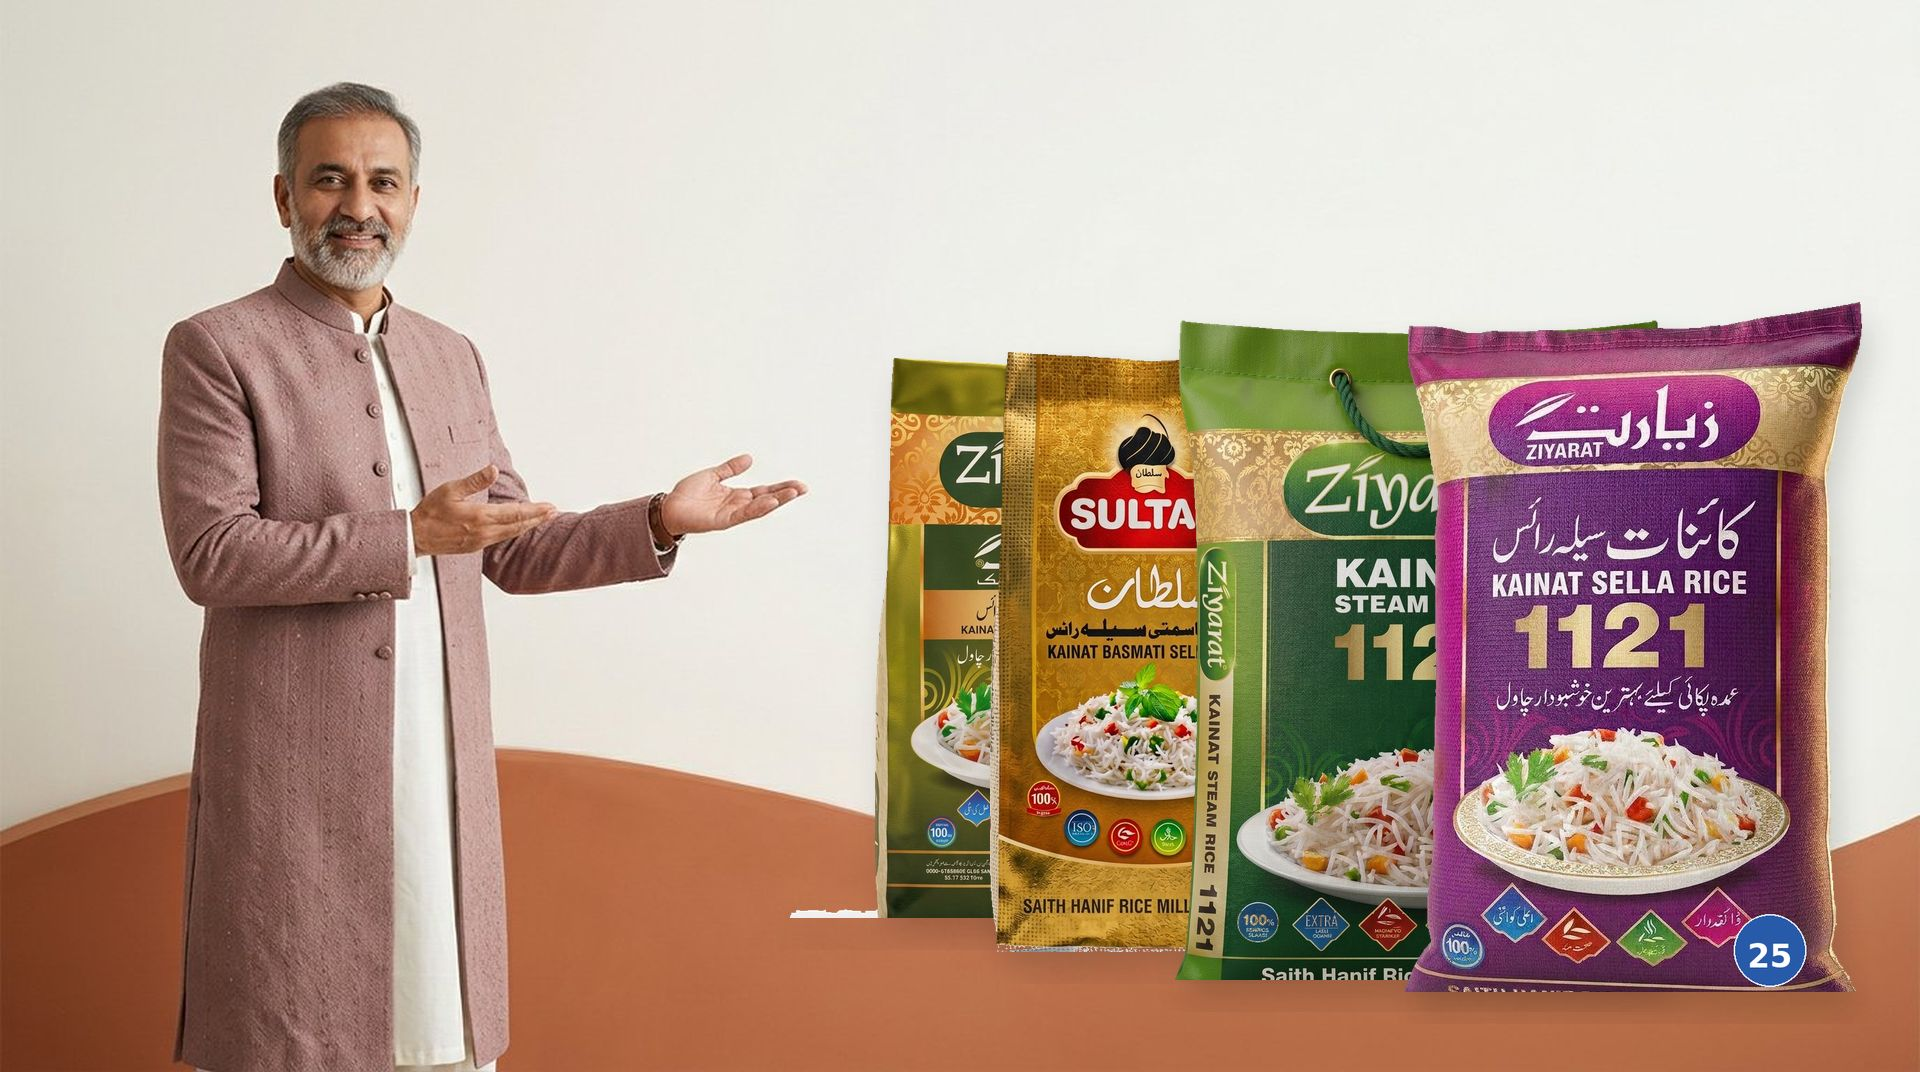
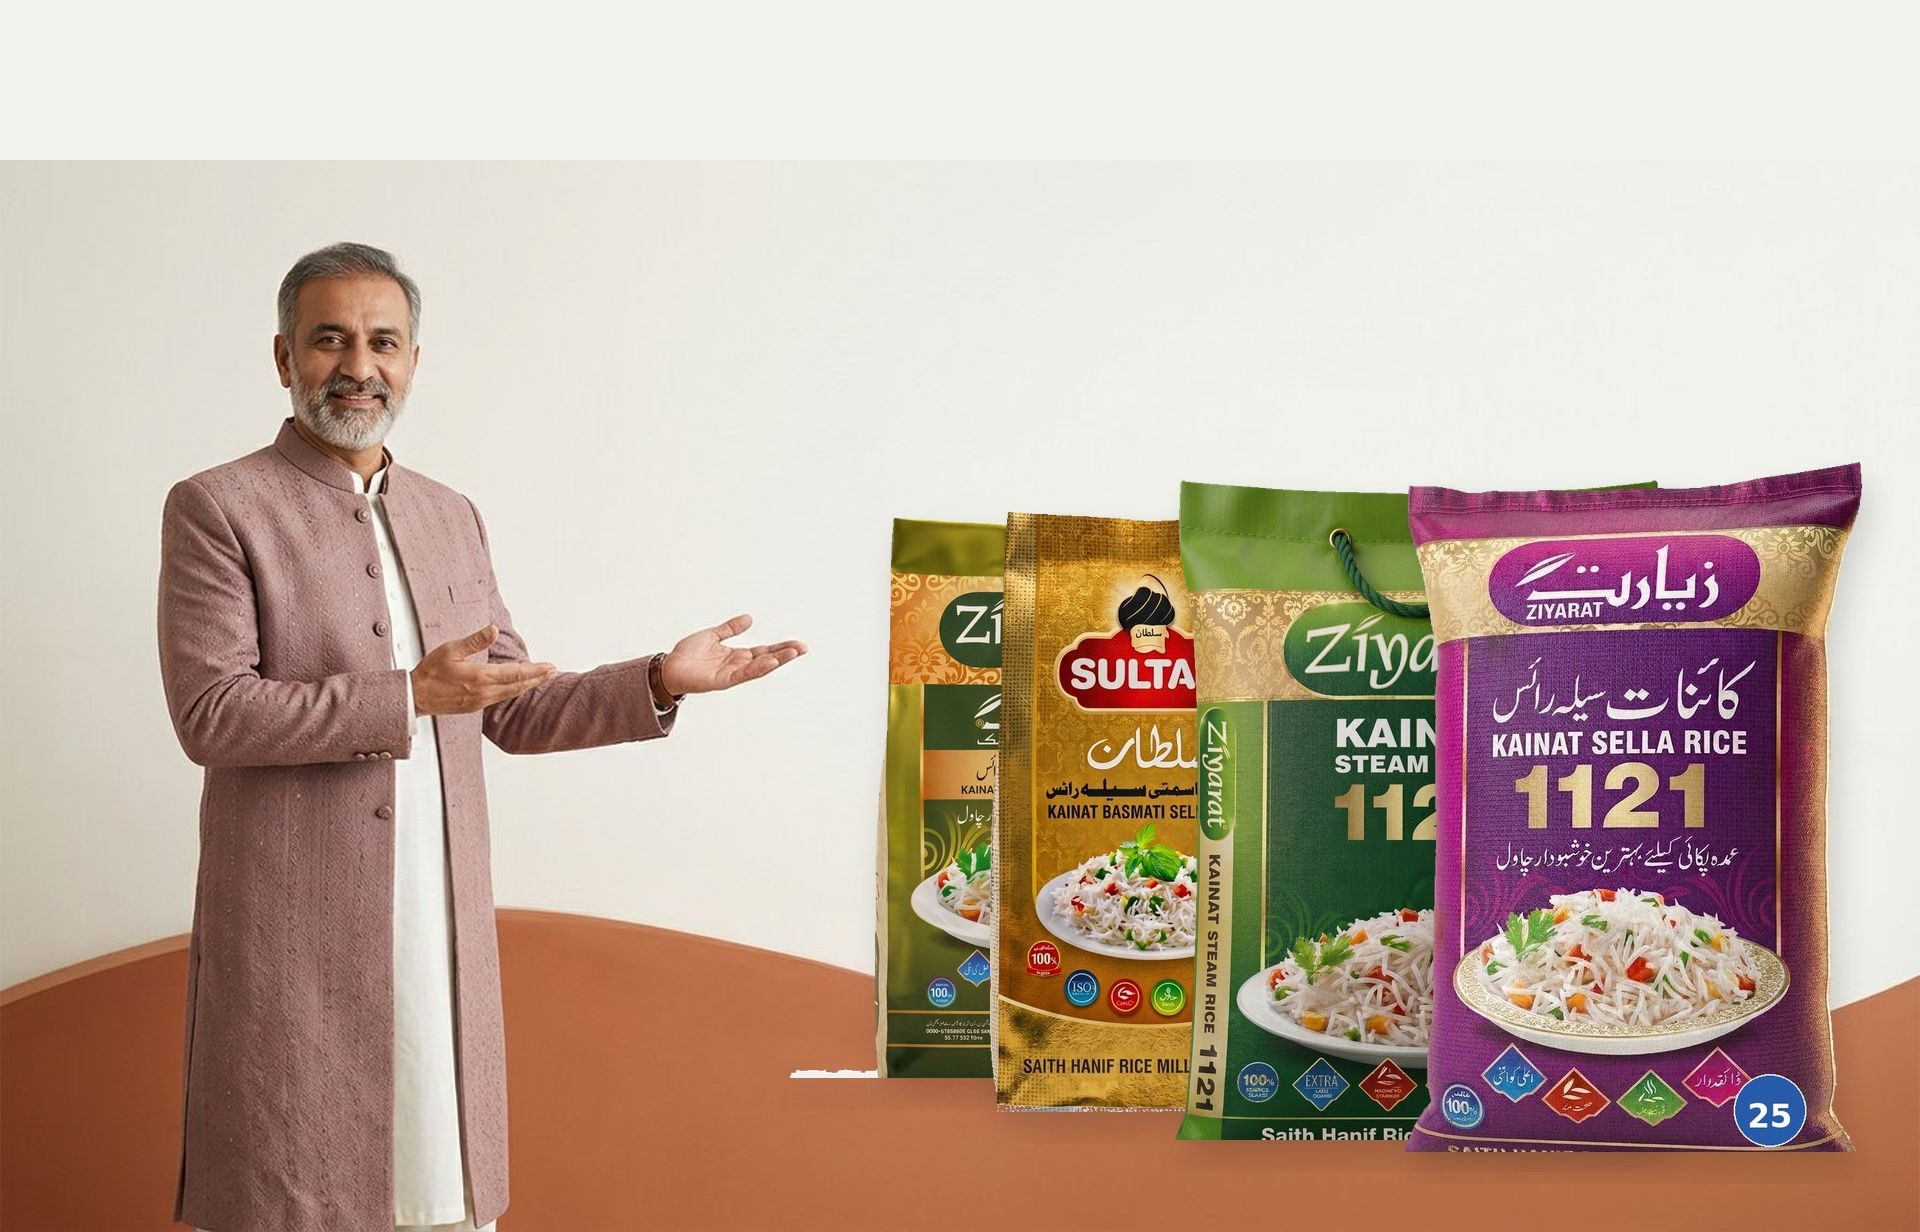
Hero: short copy, readable type, no slide counter on the creative.
Campaign portrait has headroom; overlay type off the packs; 01/03 and Scroll to Discover removed.

diff --git a/css/home.css b/css/home.css
@@ -25,10 +25,10 @@
 .home .hero-center .btn-row,
 .home .hero-center .urdu { max-width: 32rem; }
 .home .hero-center h1 {
-  font-size: clamp(2rem, 4.4vw, 3.4rem);
-  max-width: 14ch;
+  font-size: clamp(1.9rem, 4vw, 3.1rem);
+  max-width: 13ch;
 }
-.home .hero-center .lede { max-width: 34rem; }
+.home .hero-center .lede { max-width: 28rem; }
 .home .hero-shade {
   background:
     linear-gradient(90deg, rgba(6,20,14,0.62) 0%, rgba(6,20,14,0.22) 48%, rgba(6,20,14,0.12) 100%),
@@ -149,12 +149,16 @@
 }
 .home .hero-shade {
   background:
-    linear-gradient(90deg, rgba(6,20,14,0.62) 0%, rgba(6,20,14,0.22) 48%, rgba(6,20,14,0.12) 100%),
-    linear-gradient(180deg, rgba(6,20,14,0.18) 0%, rgba(6,20,14,0.1) 42%, rgba(6,20,14,0.78) 100%);
+    linear-gradient(90deg, rgba(6,20,14,0.82) 0%, rgba(6,20,14,0.52) 34%, rgba(6,20,14,0.12) 62%, rgba(6,20,14,0.04) 100%),
+    linear-gradient(180deg, rgba(6,20,14,0.2) 0%, transparent 36%, rgba(6,20,14,0.45) 100%);
 }
 .home .hero-center h1,
 .home .hero-center .lede {
-  text-shadow: 0 2px 28px rgba(6,20,14,0.55);
+  text-shadow: 0 2px 18px rgba(6,20,14,0.75);
+}
+.home .homepage-banner > .hero-pager,
+.home .homepage-banner > .scroll-discover {
+  display: none;
 }
 .home .scroll-discover {
   left: 50%;
@@ -427,7 +431,6 @@
   .lp-legacy-grid,
   .lp-split { grid-template-columns: 1fr; }
   .tl-item-h { flex-basis: 70%; }
-  .home .scroll-discover { display: flex; }
   .kr-about-media { max-width: 420px; }
   .vm-grid,
   .values-grid,
@@ -435,7 +438,7 @@
 }
 @media (max-width: 720px) {
   .home .slide .hero-content {
-    padding: 0 20px 108px;
+    padding: 0 20px 36px;
   }
   .home .hero-center {
     text-align: left;
@@ -506,10 +509,11 @@ body.home .site-header.scrolled {
   left: 0;
   right: 0;
   bottom: 0;
+  height: auto;
   width: auto;
   margin: 0;
   z-index: 3;
-  padding: 0 88px 128px;
+  padding: 0 96px 56px;
   box-sizing: border-box;
   justify-content: flex-end;
   opacity: 0;
@@ -578,37 +582,15 @@ body.home .site-header.scrolled {
   .home .hero-pack { display: none; }
 }
 
-/* Slide 2 — light pack campaign: copy in the ivory band, CTAs off the packs */
-.home .slide-campaign .hero-shade {
-  background: linear-gradient(180deg, rgba(255,252,247,0.12) 0%, rgba(255,252,247,0) 28%, rgba(255,252,247,0) 100%);
-}
+/* Slide 2 — packs only; no overlay type, no pager on the portrait */
+.home .slide-campaign .hero-shade { background: none; }
 .home .slide-campaign .hero-content.hero-center {
-  top: 0;
+  top: auto;
   bottom: 0;
-  justify-content: space-between;
+  height: auto;
+  justify-content: flex-end;
   align-items: flex-start;
-  text-align: left;
-  padding: calc(var(--header-h) + 18px) 88px 108px;
-}
-.home .slide-campaign .campaign-head {
-  align-self: center;
-  text-align: center;
-  max-width: 22rem;
-}
-.home .slide-campaign .hero-center > * { max-width: none; }
-.home .slide-campaign .hero-center h2 {
-  color: #5c3317;
-  text-shadow: none;
-  max-width: 16ch;
-  font-size: clamp(1.35rem, 2.4vw, 2rem);
-  margin: 0;
-  line-height: 1.15;
-}
-.home .slide-campaign .hero-center h2 em { color: #8a5a2b; }
-.home .slide-campaign .kicker {
-  color: #8a6a2a;
-  letter-spacing: 0.16em;
-  margin-bottom: 8px;
+  padding: 0 96px 48px;
 }
 .home .slide-campaign .hero-actions {
   align-self: flex-start;
@@ -619,38 +601,15 @@ body.home .site-header.scrolled {
   animation: none;
   transform: none;
 }
-.home .slide-campaign > img { object-position: 62% center; }
-.home .hero.is-campaign .hero-pager {
-  left: 88px;
-  transform: none;
-  align-items: flex-start;
-}
-.home .hero.is-campaign .scroll-discover {
-  left: 88px;
-  right: auto;
-  transform: none;
-}
-.home .hero.is-campaign .hero-count,
-.home .hero.is-campaign .scroll-discover {
-  color: #5c3317;
-  text-shadow: none;
-}
-@media (min-width: 900px) {
-  .home .slide-campaign > img { object-position: center center; }
+.home .slide-campaign > img {
+  object-fit: cover;
+  object-position: center 8%;
 }
 @media (max-width: 720px) {
   .home .slide-campaign .hero-content.hero-center {
-    padding: calc(var(--header-h) + 10px) 20px 100px;
+    padding: 0 20px 28px;
   }
-  .home .slide-campaign .hero-center h2 {
-    font-size: clamp(1.2rem, 5.4vw, 1.55rem);
-    max-width: 14ch;
-  }
-  .home .slide-campaign > img { object-position: 78% 55%; }
-  .home .hero.is-campaign .hero-pager,
-  .home .hero.is-campaign .scroll-discover {
-    left: 20px;
-  }
+  .home .slide-campaign > img { object-position: 78% 18%; }
 }
 
 .about-page .page-hero {

diff --git a/index.html b/index.html
@@ -19,7 +19,7 @@
   <link rel="preconnect" href="https://fonts.gstatic.com" crossorigin>
   <link href="https://fonts.googleapis.com/css2?family=Inter:wght@400;500;600;700&family=Playfair+Display:ital,wght@0,400;0,500;0,600;0,700;1,400;1,500;1,600&family=Noto+Nastaliq+Urdu:wght@400;500;600;700&display=swap" rel="stylesheet">
   <link rel="stylesheet" href="css/style.css?v=36">
-  <link rel="stylesheet" href="css/home.css?v=39">
+  <link rel="stylesheet" href="css/home.css?v=40">
 <script type="application/ld+json">
   {"@context":"https://schema.org","@type":"Organization","name":"Saith Hanif Rice Mills","url":"https://muhammadashir0.github.io/jhabran-rice-mill/","foundingDate":"1975","email":"saithhanifsailaricemills@gmail.com","telephone":"+923133332101","address":{"@type":"PostalAddress","streetAddress":"Jandiala Road, Jhabran","addressLocality":"Sheikhupura","addressRegion":"Punjab","addressCountry":"PK"},"brand":[{"@type":"Brand","name":"Ziyarat"},{"@type":"Brand","name":"Sultan"},{"@type":"Brand","name":"Wazir"}]}
   </script>
@@ -64,9 +64,9 @@
           <img src="assets/images/hero-slide-fields.jpg" alt="Sunrise over rice fields in Punjab, Pakistan" width="1920" height="1071" fetchpriority="high" decoding="async">
           <div class="hero-shade"></div>
           <div class="hero-content hero-center">
-            <p class="kicker">Saith Hanif Rice Mills · Pakistan · Established 1975</p>
+            <p class="kicker">Pakistan · Est. 1975</p>
             <h1>From Pakistan’s rice fields<br><em>to the world’s tables.</em></h1>
-            <p class="lede">Discover rice products from Saith Hanif Rice Mills in Jhabran, Sheikhupura. Explore the Ziyarat, Sultan and Wazir ranges and contact our mill to discuss product specifications, packaging and potential supply requirements.</p>
+            <p class="lede">Ziyarat · Sultan · Wazir — milled in Jhabran, Sheikhupura.</p>
             <div class="btn-row hero-actions">
               <a class="btn btn-gold" href="products.html">Explore our rice</a>
               <a class="btn btn-ghost" href="#trade">Become a business partner</a>
@@ -75,13 +75,9 @@
         </article>
 
         <article class="slide slide-campaign">
-          <img src="assets/images/hero-slide-packs.jpg?v=1" alt="Ziyarat, Sultan and Wazir rice packs presented from Saith Hanif Rice Mills" loading="lazy" decoding="async">
+          <img src="assets/images/hero-slide-packs.jpg?v=2" alt="Ziyarat, Sultan and Wazir rice packs presented from Saith Hanif Rice Mills" loading="lazy" decoding="async">
           <div class="hero-shade"></div>
           <div class="hero-content hero-center">
-            <div class="campaign-head">
-              <p class="kicker">Ziyarat · Sultan · Wazir</p>
-              <h2>Extra-long grains.<br><em>A distinctive rice experience.</em></h2>
-            </div>
             <div class="btn-row hero-actions">
               <a class="btn btn-gold" href="products.html">Discover our products</a>
               <a class="btn btn-dark" href="contact.html">Request product details</a>
@@ -95,7 +91,7 @@
           <div class="hero-content hero-center">
             <p class="kicker">Trade</p>
             <h2>Rooted in Pakistan.<br><em>Ready for global trade.</em></h2>
-            <p class="lede">Connect with Saith Hanif Rice Mills for rice product information, bulk supply discussions and private-label packing enquiries.</p>
+            <p class="lede">Variety, packaging, quantity, port.</p>
             <div class="btn-row hero-actions">
               <a class="btn btn-gold" href="#trade">Discuss your requirements</a>
               <a class="btn btn-ghost" href="contact.html">Contact our mill</a>
